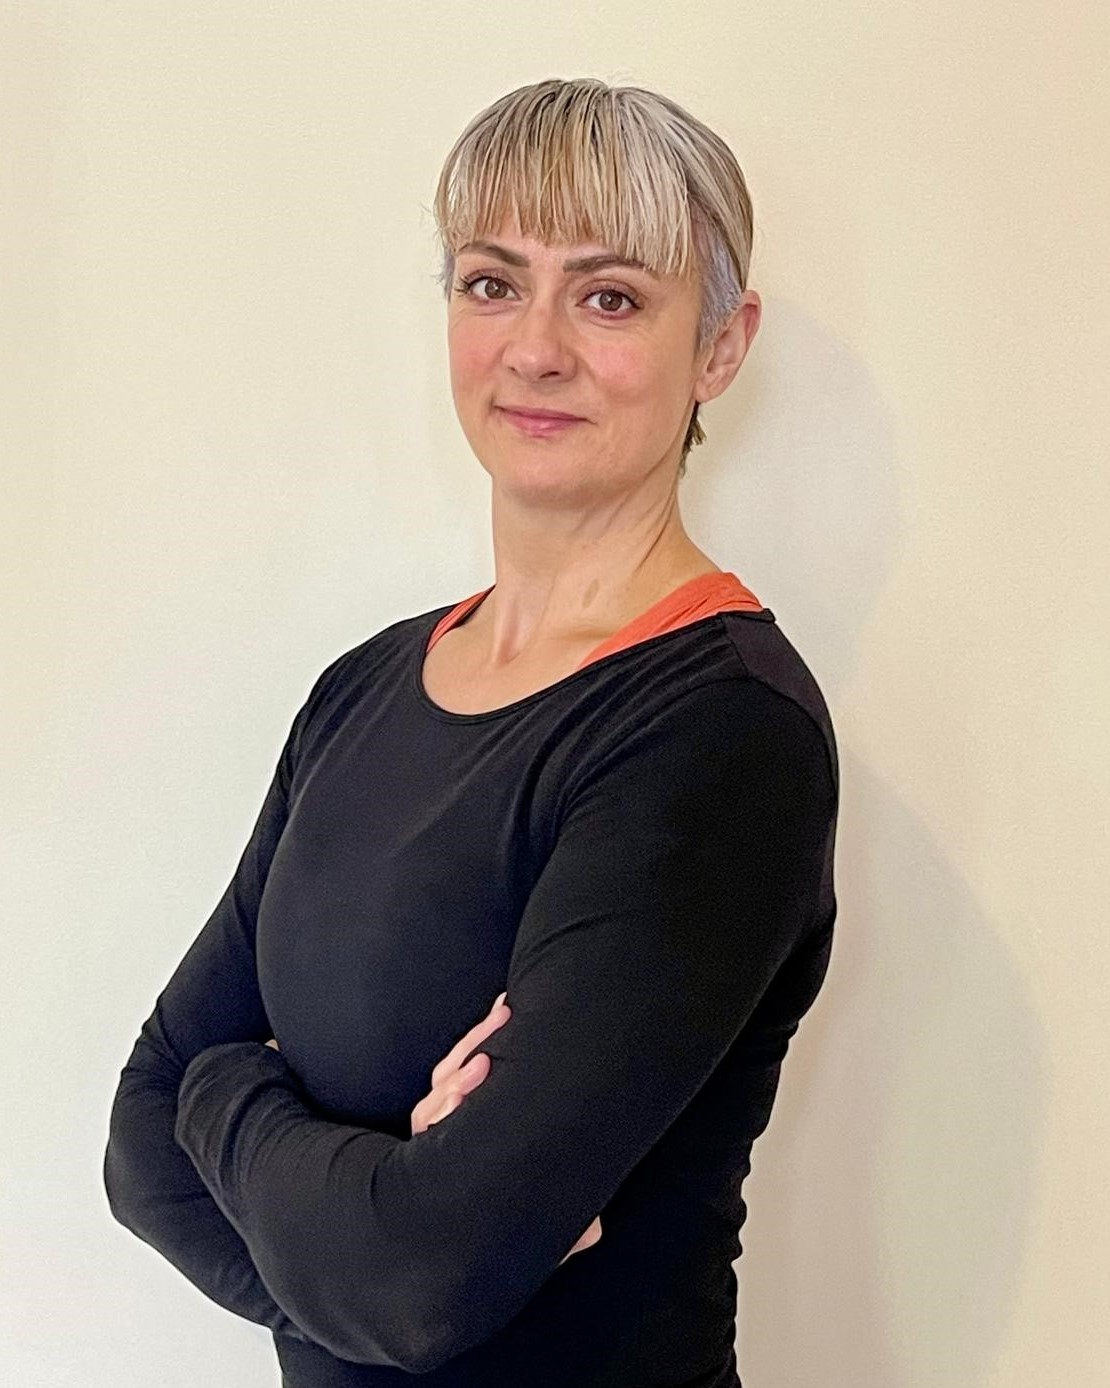
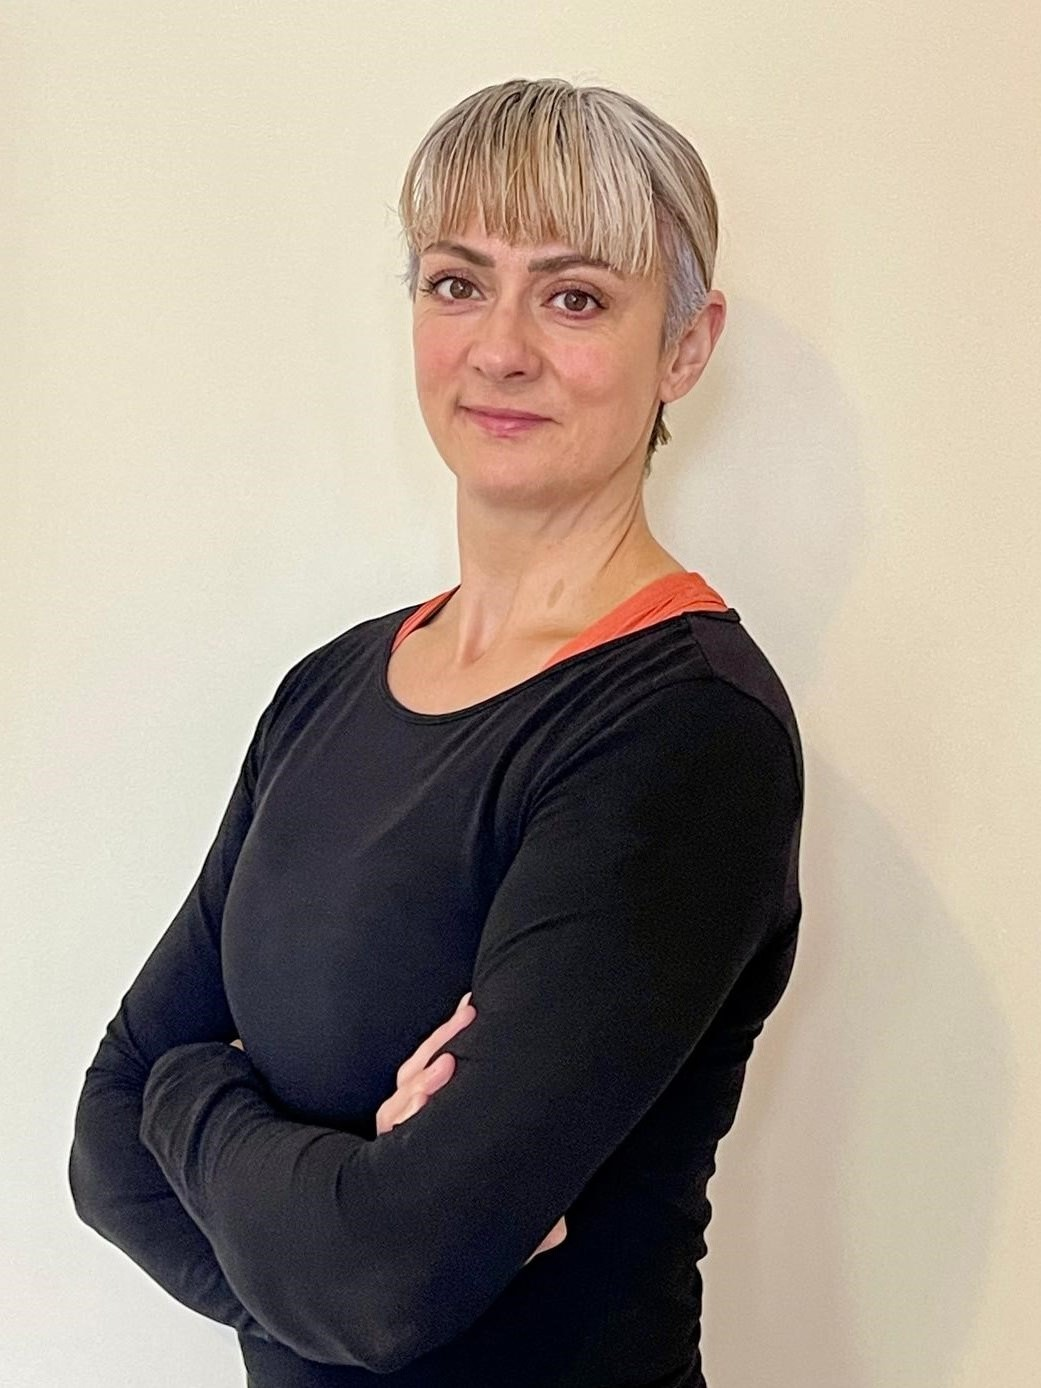
updated more text
offered alternative design on the what we treat section

replaced image on fees page

diff --git a/client/src/pages/home/WhatWeTreat2.js b/client/src/pages/home/WhatWeTreat2.js
@@ -1,0 +1,110 @@
+import { regular } from "@fortawesome/fontawesome-svg-core/import.macro";
+import { FontAwesomeIcon } from "@fortawesome/react-fontawesome";
+import TherapyCarousel from "./TherapyCarousel";
+import WelcomeVideo from "./WelcomeVideo";
+import treatmentCaro1 from "../../images/treatCaro1.jpeg";
+import treatmentCaro2 from "../../images/whatWeTreatCaro22.jpg";
+import clinic3 from "../../images/clinic3.jpeg";
+
+function WhatWeTreat2() {
+	const whatWeTreat = [
+		[
+			"General, acute & chronic back ache & back pain (non-trauma)",
+			"Sciatica",
+			"Ankle Pain",
+			"Cramp",
+			"Elbow Pain",
+			"Headache arising from the neck (Cervicogenic)",
+			"Joint Pains including hip and knee pain from Osteoarthritis",
+		],
+		[
+			"Generalised Aches and Pains",
+			"Lumbago",
+			"Mechanical neck pain",
+			"Migraine prevention",
+			"Some sports injuries depending on diagnosis",
+			"Plantar fasciitis",
+			"Rotator Cuff Injuries",
+		],
+	];
+
+    const imageWidth33 = {
+        width: "33.333333333333333%",
+    };
+
+	return (
+		<>
+			<section className="bg-dark border-top border-bottom border-10 border-secondary shadow-inset">
+
+            <div>
+				<div className="d-none d-md-flex">
+					<img style={imageWidth33} src={treatmentCaro1}></img>
+					<img className="border-start border-end border-2 border-white" style={imageWidth33} src={treatmentCaro2}></img>
+					<img style={imageWidth33} src={clinic3}></img>
+				</div>
+				<div className="d-flex d-md-none">
+					<div id="whatWeTreatCarousel" class="carousel slide">
+						<div class="carousel-inner">
+							<div class="carousel-item active">
+								<img src={treatmentCaro1} class="d-block w-100" alt="..." />
+							</div>
+							<div class="carousel-item">
+								<img src={treatmentCaro2} class="d-block w-100" alt="..." />
+							</div>
+							<div class="carousel-item">
+								<img src={clinic3} class="d-block w-100" alt="..." />
+							</div>
+						</div>
+						<button class="carousel-control-prev" type="button" data-bs-target="#whatWeTreatCarousel" data-bs-slide="prev">
+							<span class="carousel-control-prev-icon" aria-hidden="true"></span>
+							<span class="visually-hidden">Previous</span>
+						</button>
+						<button class="carousel-control-next" type="button" data-bs-target="#whatWeTreatCarousel" data-bs-slide="next">
+							<span class="carousel-control-next-icon" aria-hidden="true"></span>
+							<span class="visually-hidden">Next</span>
+						</button>
+					</div>
+				</div>
+			</div>
+
+				<div className="container-md">
+					<div className="">
+						<div className="">
+							<div className="py-2 pb-lg-5 pt-lg-3">
+								<h3 className="we-do-h3 fw-bold josefinSans-text text-light w-100">What we treat</h3>
+								<div className="text-white fs-5">
+									<p>
+										Our evidence-based clinic keeps current with the latest clinical research and techniques. We use the most up-to-date
+										orthopaedic testing to find the underlying cause of your symptoms and fast-track MRI and X-Ray scanning if necessary. We
+										provide our patients with first-class care to achieve the fastest results.
+										<br></br>
+									</p>
+								</div>
+								<div className="row">
+									{whatWeTreat.map((item, i) => (
+										<div key={i} className="col-12 col-md-6">
+											<ul className="fs-5 we-treat-list text-uppercase text-black list-group list-group-flush">
+												{item.map((it) => (
+													<li key={it} className="list-group-item bg-dark text-light fw-bold px-0 px-md-2">
+														<div className="d-flex align-items-center">
+															<div className="me-2">
+																<FontAwesomeIcon className="fs-3 text-success" icon={regular("circle-check")} />
+															</div>
+															<div className="">{it}</div>
+														</div>
+													</li>
+												))}
+											</ul>
+										</div>
+									))}
+								</div>
+							</div>
+						</div>
+					</div>
+				</div>
+			</section>
+		</>
+	);
+}
+
+export default WhatWeTreat2;

diff --git a/client/src/pages/home/OurClinic.js b/client/src/pages/home/OurClinic.js
@@ -10,39 +10,37 @@ const imageWidth33 = {
 	width: "33.333333333333333%",
 };
 
-const imageWidth50 = {
-	width: "50%",
-};
-
 const OurClinic = (props) => {
 	return (
 		<section>
-			<div className="d-none d-md-flex">
-				<img style={imageWidth33} src={clinic1}></img>
-				<img className="border-start border-end border-2 border-white" style={imageWidth33} src={clinic2}></img>
-				<img style={imageWidth33} src={clinic4}></img>
-			</div>
-			<div className="d-flex d-md-none">
-				<div id="clinicCarousel" class="carousel slide">
-					<div class="carousel-inner">
-						<div class="carousel-item active">
-							<img src={clinic1} class="d-block w-100" alt="..." />
+			<div>
+				<div className="d-none d-md-flex">
+					<img style={imageWidth33} src={clinic1}></img>
+					<img className="border-start border-end border-2 border-white" style={imageWidth33} src={clinic2}></img>
+					<img style={imageWidth33} src={clinic4}></img>
+				</div>
+				<div className="d-flex d-md-none">
+					<div id="clinicCarousel" class="carousel slide">
+						<div class="carousel-inner">
+							<div class="carousel-item active">
+								<img src={clinic1} class="d-block w-100" alt="..." />
+							</div>
+							<div class="carousel-item">
+								<img src={clinic2} class="d-block w-100" alt="..." />
+							</div>
+							<div class="carousel-item">
+								<img src={clinic4} class="d-block w-100" alt="..." />
+							</div>
 						</div>
-						<div class="carousel-item">
-							<img src={clinic2} class="d-block w-100" alt="..." />
-						</div>
-						<div class="carousel-item">
-							<img src={clinic4} class="d-block w-100" alt="..." />
-						</div>
+						<button class="carousel-control-prev" type="button" data-bs-target="#clinicCarousel" data-bs-slide="prev">
+							<span class="carousel-control-prev-icon" aria-hidden="true"></span>
+							<span class="visually-hidden">Previous</span>
+						</button>
+						<button class="carousel-control-next" type="button" data-bs-target="#clinicCarousel" data-bs-slide="next">
+							<span class="carousel-control-next-icon" aria-hidden="true"></span>
+							<span class="visually-hidden">Next</span>
+						</button>
 					</div>
-					<button class="carousel-control-prev" type="button" data-bs-target="#clinicCarousel" data-bs-slide="prev">
-						<span class="carousel-control-prev-icon" aria-hidden="true"></span>
-						<span class="visually-hidden">Previous</span>
-					</button>
-					<button class="carousel-control-next" type="button" data-bs-target="#clinicCarousel" data-bs-slide="next">
-						<span class="carousel-control-next-icon" aria-hidden="true"></span>
-						<span class="visually-hidden">Next</span>
-					</button>
 				</div>
 			</div>
 			<div className="container-md">
@@ -50,8 +48,10 @@ const OurClinic = (props) => {
 					<blockquote class="blockquote">
 						<p class="fs-5">
 							<FontAwesomeIcon className="fs-5 text-black" icon={solid("quote-left")} />
-							<em className="mx-2">From the moment I walked in, the atmosphere was warm and welcoming. The staff was friendly and professional, and I felt comfortable
-							right away.</em>
+							<em className="mx-2">
+								From the moment I walked in, the atmosphere was warm and welcoming. The staff was friendly and professional, and I felt
+								comfortable right away.
+							</em>
 							<FontAwesomeIcon className="fs-5 text-black" icon={solid("quote-right")} />
 						</p>
 					</blockquote>

diff --git a/client/src/pages/fees/Fees.js b/client/src/pages/fees/Fees.js
@@ -1,12 +1,9 @@
 import PageHeader from "../../components/utils/PageHeader";
-import therapy2 from "../../images/therapy2.jpg";
 import therapy5x4 from "../../images/therapy5x4.jpg";
-import therapy3 from "../../images/IMG_2727.jpeg";
-import building from "../../images/building-sign.jpg";
-import botox from "../../images/botox.jpeg";
 import botox1 from "../../images/botox1.jpeg";
 import reception1 from "../../images/reception1.jpeg"
-import { regular, solid } from "@fortawesome/fontawesome-svg-core/import.macro";
+import chiroFriend from "../../images/feesPage1.jpeg"
+import { solid } from "@fortawesome/fontawesome-svg-core/import.macro";
 import { FontAwesomeIcon } from "@fortawesome/react-fontawesome";
 import React, { useEffect } from "react";
 import PageContainer from "../../components/utils/PageContainer";
@@ -76,7 +73,7 @@ function Fees() {
 					<div className="col-12 col-md-6 mb-3 mb-md-0">
 						<div className="p-3 h-100 white-border shadow bg-offLight">
 							<div className="mb-2">
-								<img className="img-fluid border border-5" src={therapy5x4} alt="Dr Austin Everill with a patient in the clinic."></img>
+								<img className="img-fluid border border-5" src={chiroFriend} alt="Dr Austin Everill with a patient in the clinic."></img>
 							</div>
 							<div>
 								<h3 className="h3 mb-0 josefinSans-text text-dark">Returning Patient</h3>

diff --git a/client/src/pages/meetTheTeam/MeetTheTeam.js b/client/src/pages/meetTheTeam/MeetTheTeam.js
@@ -1,4 +1,5 @@
 import austin from "../../images/austinFull.jpg";
+import austin4 from "../../images/austin4.jpeg";
 import claire from "../../images/Claire.jpg";
 import adrian from "../../images/Adrian.jpg";
 import TeamCard from "./TeamCard";
@@ -17,7 +18,7 @@ function MeetTheTeam() {
         {
             title: "Dr Austin Everill - MChiro DC",
             summary: "Restore Wellness and Elevate Your Health.",
-            image: austin,
+            image: austin4,
             alt: "Dr Austin Everill portrait, he is standing and smiling. His arms are crossed and he is wearing medical scrubs. He looks professional and approachable",
             textHtml: (
                 <>

diff --git a/client/src/pages/home/Testimonials.js b/client/src/pages/home/Testimonials.js
@@ -37,7 +37,7 @@ function Testimonials() {
 						<div className="container-fluid bg-light border-top border-bottom border-secondary border-3 shadow-inset">
 							<div className="row">
 								<div className="col-12 col-lg-2 d-flex align-items-center justify-content-center justify-content-lg-end">
-									<div class="text-center">
+									<div className="text-center">
 										<strong className="fs-5">Google Reviews</strong>
 										<div className="d-flex justify-content-center">
 											{new Array(rating.rating).fill(0).map((it, index) => (

diff --git a/client/src/pages/home/Home.js b/client/src/pages/home/Home.js
@@ -2,6 +2,7 @@ import React, { useEffect } from "react";
 import Hero from "./Hero";
 import WhatWeDo from "./WhatWeDo";
 import WhatWeTreat from "./WhatWeTreat";
+import WhatWeTreat2 from "./WhatWeTreat2";
 import Testimonials from "./Testimonials";
 import WhatToExpect from "./WhatToExpect";
 import MigraineTreatment from "./MigraineTreatment";
@@ -22,7 +23,7 @@ const Home = () => {
 
                 <WhatWeDo></WhatWeDo>
 
-                <WhatWeTreat></WhatWeTreat>
+                <WhatWeTreat2 />
 
                 <OurClinic/>
 

diff --git a/client/src/pages/meetTheTeam/TeamCard.js b/client/src/pages/meetTheTeam/TeamCard.js
@@ -7,7 +7,7 @@ function TeamCard({ teamMember }) {
         <div className="shadow white-border bg-offLight">
             <div>
                 <div className="d-none d-sm-block">
-                    <div style={{ minHeight: "584px" }}>
+                    <div style={{ minHeight: "620px" }}>
                         <div>
                             <div className="float-end ps-3" style={{ width: "40%" }}>
                                 <img className="img-fluid max-width border border-5" src={image}></img>

diff --git a/client/src/components/PageNotFound.js b/client/src/components/PageNotFound.js
@@ -7,7 +7,7 @@ function PageNotFound() {
                 <h1 className="text-center">Whoops! &#128549; The page you were looking for doesn't exist!</h1>
                 <div className="text-center">
                     <Link className="btn btn-outline-dark" to={"/"}>
-                        You're drunk, go home &#127969; &#128522;
+                        Whoops! Looks like you've gotten lost - go home &#127969; &#128522;
                     </Link>
                 </div>
             </div>

diff --git a/client/src/Main.js b/client/src/Main.js
@@ -30,7 +30,7 @@ function Main() {
             className={`rounded-0 rounded-top btn btn-lg btn-warm`}
             style={{ boxShadow: "-2px -2px 7px black" }}
           >
-            Book Online
+            Book online
           </a>
         </div>
       </aside>

diff --git a/client/src/pages/home/WhatWeDo.js b/client/src/pages/home/WhatWeDo.js
@@ -1,5 +1,5 @@
 import austin1 from "../../images/austin.jpg";
-import austin2 from "../../images/austin3.jpeg";
+import austin2 from "../../images/austin4.jpeg";
 import gccReg from "../../images/gccReg.png";
 
 function WhatWeDo() {
